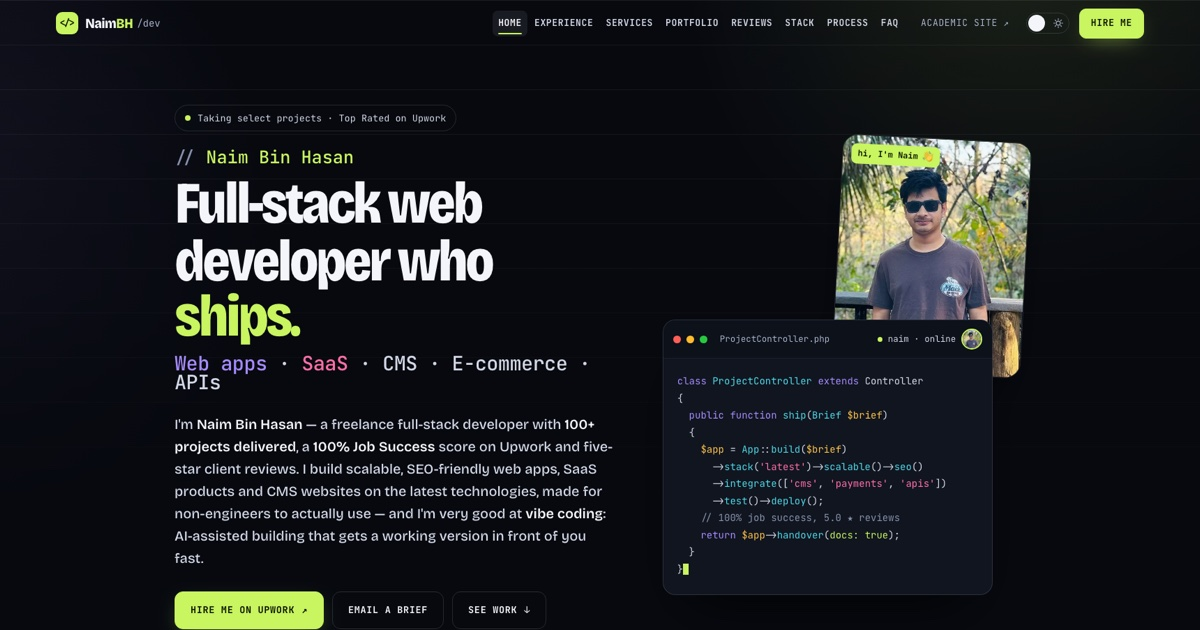
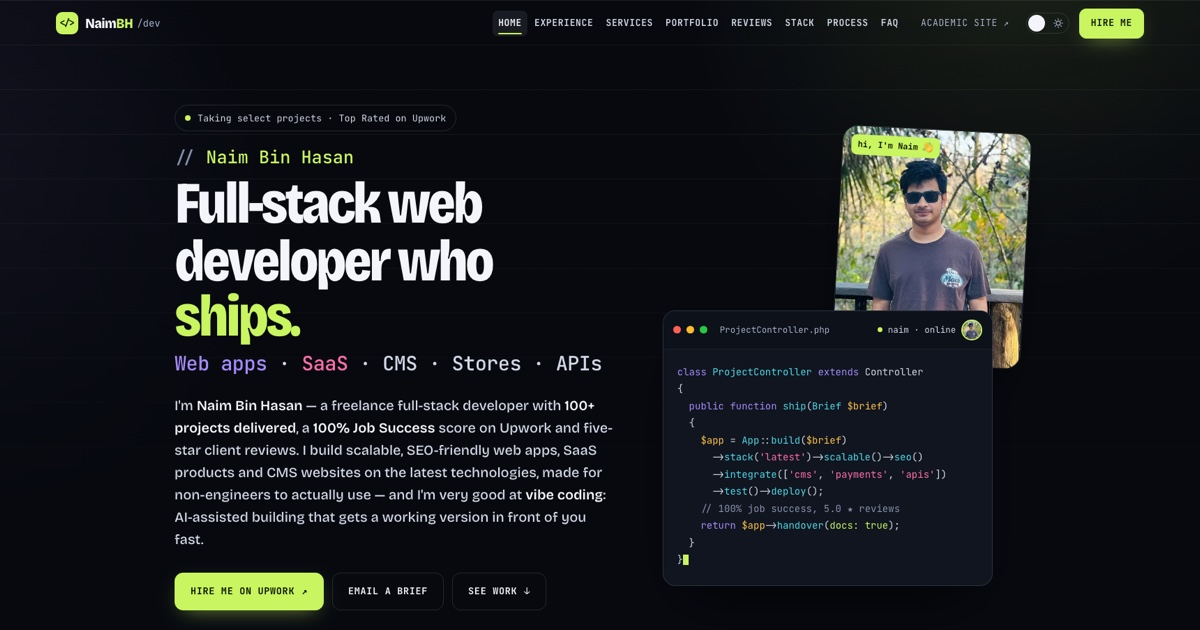
Dev hero: keep stack line on one row

diff --git a/dev/index.html b/dev/index.html
@@ -43,8 +43,8 @@
 <meta property="og:title" content="Naim Bin Hasan — Freelance Full-Stack Web Developer: Web Apps, SaaS &amp; CMS">
 <meta property="og:description" content="Top Rated on Upwork with 100% Job Success. Scalable web apps, SaaS products, SEO-friendly CMS websites and API integrations, built with the latest technologies. 100+ projects delivered.">
 <meta property="og:url" content="https://dev.naimbh.com/">
-<meta property="og:image" content="https://dev.naimbh.com/images/naim-bin-hasan-web-developer-site.jpg?v=2">
-<meta property="og:image:secure_url" content="https://dev.naimbh.com/images/naim-bin-hasan-web-developer-site.jpg?v=2">
+<meta property="og:image" content="https://dev.naimbh.com/images/naim-bin-hasan-web-developer-site.jpg?v=3">
+<meta property="og:image:secure_url" content="https://dev.naimbh.com/images/naim-bin-hasan-web-developer-site.jpg?v=3">
 <meta property="og:image:type" content="image/jpeg">
 <meta property="og:image:width" content="1200">
 <meta property="og:image:height" content="630">
@@ -53,7 +53,7 @@
 <meta name="twitter:card" content="summary_large_image">
 <meta name="twitter:title" content="Naim Bin Hasan — Freelance Full-Stack Web Developer: Web Apps, SaaS &amp; CMS">
 <meta name="twitter:description" content="Top Rated on Upwork with 100% Job Success. Scalable web apps, SaaS products, SEO-friendly CMS websites and API integrations, built with the latest technologies. 100+ projects delivered.">
-<meta name="twitter:image" content="https://dev.naimbh.com/images/naim-bin-hasan-web-developer-site.jpg?v=2">
+<meta name="twitter:image" content="https://dev.naimbh.com/images/naim-bin-hasan-web-developer-site.jpg?v=3">
 <meta name="twitter:image:alt" content="Homepage of dev.naimbh.com: Naim Bin Hasan, full-stack web developer for web apps, SaaS and CMS websites">
 
 <script type="application/ld+json">
@@ -853,7 +853,7 @@ html.lenis, html.lenis body{ height:auto; }
           <span class="ln nm"><span data-line style="--d:0s">Naim Bin Hasan</span></span>
           <span class="ln"><span data-line style="--d:.06s">Full-stack web</span></span>
           <span class="ln"><span data-line style="--d:.12s">developer who <span class="hl">ships.</span></span></span>
-          <span class="ln"><span data-line style="--d:.18s"><span class="stk"><b>Web apps</b> · <u>SaaS</u> · CMS · E-commerce · APIs</span></span></span>
+          <span class="ln"><span data-line style="--d:.18s"><span class="stk"><b>Web apps</b> · <u>SaaS</u> · CMS · Stores · APIs</span></span></span>
         </h1>
         <p class="intro">I'm <strong>Naim Bin Hasan</strong> — a freelance full-stack developer with <strong>100+ projects delivered</strong>, a <strong>100% Job Success</strong> score on Upwork and five-star client reviews. I build scalable, SEO-friendly web apps, SaaS products and CMS websites on the latest technologies, made for non-engineers to actually use — and I'm very good at <strong>vibe coding</strong>: AI-assisted building that gets a working version in front of you fast.</p>
         <div class="cta">

diff --git a/dev/services/index.html b/dev/services/index.html
@@ -43,8 +43,8 @@
 <meta property="og:title" content="Web App, SaaS &amp; CMS Development Services | Naim Bin Hasan">
 <meta property="og:description" content="Scalable custom web apps and SaaS products, SEO-friendly CMS websites, dashboards, e-commerce and API integrations, built with the latest technologies by full-stack developer Naim Bin Hasan.">
 <meta property="og:url" content="https://dev.naimbh.com/services/">
-<meta property="og:image" content="https://dev.naimbh.com/images/naim-bin-hasan-web-developer-site.jpg?v=2">
-<meta property="og:image:secure_url" content="https://dev.naimbh.com/images/naim-bin-hasan-web-developer-site.jpg?v=2">
+<meta property="og:image" content="https://dev.naimbh.com/images/naim-bin-hasan-web-developer-site.jpg?v=3">
+<meta property="og:image:secure_url" content="https://dev.naimbh.com/images/naim-bin-hasan-web-developer-site.jpg?v=3">
 <meta property="og:image:type" content="image/jpeg">
 <meta property="og:image:width" content="1200">
 <meta property="og:image:height" content="630">
@@ -53,7 +53,7 @@
 <meta name="twitter:card" content="summary_large_image">
 <meta name="twitter:title" content="Web App, SaaS &amp; CMS Development Services | Naim Bin Hasan">
 <meta name="twitter:description" content="Scalable custom web apps and SaaS products, SEO-friendly CMS websites, dashboards, e-commerce and API integrations, built with the latest technologies by full-stack developer Naim Bin Hasan.">
-<meta name="twitter:image" content="https://dev.naimbh.com/images/naim-bin-hasan-web-developer-site.jpg?v=2">
+<meta name="twitter:image" content="https://dev.naimbh.com/images/naim-bin-hasan-web-developer-site.jpg?v=3">
 <meta name="twitter:image:alt" content="Homepage of dev.naimbh.com: Naim Bin Hasan, full-stack web developer for web apps, SaaS and CMS websites">
 
 <script type="application/ld+json">

diff --git a/dev/experience/index.html b/dev/experience/index.html
@@ -43,8 +43,8 @@
 <meta property="og:title" content="Web Development Experience | Naim Bin Hasan">
 <meta property="og:description" content="Where Naim Bin Hasan has built software: research web tools at the Syracuse University iSchool, full-stack business apps and dashboards at Zilberman Insurance, and 100+ client projects on Upwork and Fiverr.">
 <meta property="og:url" content="https://dev.naimbh.com/experience/">
-<meta property="og:image" content="https://dev.naimbh.com/images/naim-bin-hasan-web-developer-site.jpg?v=2">
-<meta property="og:image:secure_url" content="https://dev.naimbh.com/images/naim-bin-hasan-web-developer-site.jpg?v=2">
+<meta property="og:image" content="https://dev.naimbh.com/images/naim-bin-hasan-web-developer-site.jpg?v=3">
+<meta property="og:image:secure_url" content="https://dev.naimbh.com/images/naim-bin-hasan-web-developer-site.jpg?v=3">
 <meta property="og:image:type" content="image/jpeg">
 <meta property="og:image:width" content="1200">
 <meta property="og:image:height" content="630">
@@ -53,7 +53,7 @@
 <meta name="twitter:card" content="summary_large_image">
 <meta name="twitter:title" content="Web Development Experience | Naim Bin Hasan">
 <meta name="twitter:description" content="Where Naim Bin Hasan has built software: research web tools at the Syracuse University iSchool, full-stack business apps and dashboards at Zilberman Insurance, and 100+ client projects on Upwork and Fiverr.">
-<meta name="twitter:image" content="https://dev.naimbh.com/images/naim-bin-hasan-web-developer-site.jpg?v=2">
+<meta name="twitter:image" content="https://dev.naimbh.com/images/naim-bin-hasan-web-developer-site.jpg?v=3">
 <meta name="twitter:image:alt" content="Homepage of dev.naimbh.com: Naim Bin Hasan, full-stack web developer for web apps, SaaS and CMS websites">
 
 <script type="application/ld+json">

diff --git a/dev/contact/index.html b/dev/contact/index.html
@@ -43,8 +43,8 @@
 <meta property="og:title" content="Hire Naim Bin Hasan | Full-Stack Web Developer for Your Project">
 <meta property="og:description" content="Hire Naim Bin Hasan for your web project through Upwork, Fiverr or email. Tell him what you're building, your timeline and budget; he usually replies within a day.">
 <meta property="og:url" content="https://dev.naimbh.com/contact/">
-<meta property="og:image" content="https://dev.naimbh.com/images/naim-bin-hasan-web-developer-site.jpg?v=2">
-<meta property="og:image:secure_url" content="https://dev.naimbh.com/images/naim-bin-hasan-web-developer-site.jpg?v=2">
+<meta property="og:image" content="https://dev.naimbh.com/images/naim-bin-hasan-web-developer-site.jpg?v=3">
+<meta property="og:image:secure_url" content="https://dev.naimbh.com/images/naim-bin-hasan-web-developer-site.jpg?v=3">
 <meta property="og:image:type" content="image/jpeg">
 <meta property="og:image:width" content="1200">
 <meta property="og:image:height" content="630">
@@ -53,7 +53,7 @@
 <meta name="twitter:card" content="summary_large_image">
 <meta name="twitter:title" content="Hire Naim Bin Hasan | Full-Stack Web Developer for Your Project">
 <meta name="twitter:description" content="Hire Naim Bin Hasan for your web project through Upwork, Fiverr or email. Tell him what you're building, your timeline and budget; he usually replies within a day.">
-<meta name="twitter:image" content="https://dev.naimbh.com/images/naim-bin-hasan-web-developer-site.jpg?v=2">
+<meta name="twitter:image" content="https://dev.naimbh.com/images/naim-bin-hasan-web-developer-site.jpg?v=3">
 <meta name="twitter:image:alt" content="Homepage of dev.naimbh.com: Naim Bin Hasan, full-stack web developer for web apps, SaaS and CMS websites">
 
 <script type="application/ld+json">

diff --git a/dev/stack/index.html b/dev/stack/index.html
@@ -43,8 +43,8 @@
 <meta property="og:title" content="Tech Stack | Naim Bin Hasan, Full-Stack Web Developer">
 <meta property="og:description" content="The technologies Naim Bin Hasan builds with: Laravel, PHP, Vue.js, React, MySQL, Redis, Linux servers, Nginx, Docker, AWS S3, Stripe, Twilio and AI-assisted development.">
 <meta property="og:url" content="https://dev.naimbh.com/stack/">
-<meta property="og:image" content="https://dev.naimbh.com/images/naim-bin-hasan-web-developer-site.jpg?v=2">
-<meta property="og:image:secure_url" content="https://dev.naimbh.com/images/naim-bin-hasan-web-developer-site.jpg?v=2">
+<meta property="og:image" content="https://dev.naimbh.com/images/naim-bin-hasan-web-developer-site.jpg?v=3">
+<meta property="og:image:secure_url" content="https://dev.naimbh.com/images/naim-bin-hasan-web-developer-site.jpg?v=3">
 <meta property="og:image:type" content="image/jpeg">
 <meta property="og:image:width" content="1200">
 <meta property="og:image:height" content="630">
@@ -53,7 +53,7 @@
 <meta name="twitter:card" content="summary_large_image">
 <meta name="twitter:title" content="Tech Stack | Naim Bin Hasan, Full-Stack Web Developer">
 <meta name="twitter:description" content="The technologies Naim Bin Hasan builds with: Laravel, PHP, Vue.js, React, MySQL, Redis, Linux servers, Nginx, Docker, AWS S3, Stripe, Twilio and AI-assisted development.">
-<meta name="twitter:image" content="https://dev.naimbh.com/images/naim-bin-hasan-web-developer-site.jpg?v=2">
+<meta name="twitter:image" content="https://dev.naimbh.com/images/naim-bin-hasan-web-developer-site.jpg?v=3">
 <meta name="twitter:image:alt" content="Homepage of dev.naimbh.com: Naim Bin Hasan, full-stack web developer for web apps, SaaS and CMS websites">
 
 <script type="application/ld+json">

diff --git a/dev/faq/index.html b/dev/faq/index.html
@@ -43,8 +43,8 @@
 <meta property="og:title" content="FAQ | Hiring Naim Bin Hasan, Freelance Web Developer">
 <meta property="og:description" content="Answers about hiring Naim Bin Hasan: the projects he takes on, how to hire him, which technology he uses, AI-assisted development and freelancing alongside a PhD.">
 <meta property="og:url" content="https://dev.naimbh.com/faq/">
-<meta property="og:image" content="https://dev.naimbh.com/images/naim-bin-hasan-web-developer-site.jpg?v=2">
-<meta property="og:image:secure_url" content="https://dev.naimbh.com/images/naim-bin-hasan-web-developer-site.jpg?v=2">
+<meta property="og:image" content="https://dev.naimbh.com/images/naim-bin-hasan-web-developer-site.jpg?v=3">
+<meta property="og:image:secure_url" content="https://dev.naimbh.com/images/naim-bin-hasan-web-developer-site.jpg?v=3">
 <meta property="og:image:type" content="image/jpeg">
 <meta property="og:image:width" content="1200">
 <meta property="og:image:height" content="630">
@@ -53,7 +53,7 @@
 <meta name="twitter:card" content="summary_large_image">
 <meta name="twitter:title" content="FAQ | Hiring Naim Bin Hasan, Freelance Web Developer">
 <meta name="twitter:description" content="Answers about hiring Naim Bin Hasan: the projects he takes on, how to hire him, which technology he uses, AI-assisted development and freelancing alongside a PhD.">
-<meta name="twitter:image" content="https://dev.naimbh.com/images/naim-bin-hasan-web-developer-site.jpg?v=2">
+<meta name="twitter:image" content="https://dev.naimbh.com/images/naim-bin-hasan-web-developer-site.jpg?v=3">
 <meta name="twitter:image:alt" content="Homepage of dev.naimbh.com: Naim Bin Hasan, full-stack web developer for web apps, SaaS and CMS websites">
 
 <script type="application/ld+json">

diff --git a/dev/portfolio/index.html b/dev/portfolio/index.html
@@ -43,8 +43,8 @@
 <meta property="og:title" content="Portfolio | Naim Bin Hasan, Full-Stack Web Developer">
 <meta property="og:description" content="Full-stack projects shipped by Naim Bin Hasan: custom CMSs, SaaS platforms, payments, real-time apps and API integrations, built to scale and to rank.">
 <meta property="og:url" content="https://dev.naimbh.com/portfolio/">
-<meta property="og:image" content="https://dev.naimbh.com/images/naim-bin-hasan-web-developer-site.jpg?v=2">
-<meta property="og:image:secure_url" content="https://dev.naimbh.com/images/naim-bin-hasan-web-developer-site.jpg?v=2">
+<meta property="og:image" content="https://dev.naimbh.com/images/naim-bin-hasan-web-developer-site.jpg?v=3">
+<meta property="og:image:secure_url" content="https://dev.naimbh.com/images/naim-bin-hasan-web-developer-site.jpg?v=3">
 <meta property="og:image:type" content="image/jpeg">
 <meta property="og:image:width" content="1200">
 <meta property="og:image:height" content="630">
@@ -53,7 +53,7 @@
 <meta name="twitter:card" content="summary_large_image">
 <meta name="twitter:title" content="Portfolio | Naim Bin Hasan, Full-Stack Web Developer">
 <meta name="twitter:description" content="Full-stack projects shipped by Naim Bin Hasan: custom CMSs, SaaS platforms, payments, real-time apps and API integrations, built to scale and to rank.">
-<meta name="twitter:image" content="https://dev.naimbh.com/images/naim-bin-hasan-web-developer-site.jpg?v=2">
+<meta name="twitter:image" content="https://dev.naimbh.com/images/naim-bin-hasan-web-developer-site.jpg?v=3">
 <meta name="twitter:image:alt" content="Homepage of dev.naimbh.com: Naim Bin Hasan, full-stack web developer for web apps, SaaS and CMS websites">
 
 <script type="application/ld+json">

diff --git a/dev/process/index.html b/dev/process/index.html
@@ -43,8 +43,8 @@
 <meta property="og:title" content="How I Work | Naim Bin Hasan, Freelance Web Developer">
 <meta property="og:description" content="A simple, no-surprises process: brief, written scope and quote, build in milestones, then launch and handover with documentation.">
 <meta property="og:url" content="https://dev.naimbh.com/process/">
-<meta property="og:image" content="https://dev.naimbh.com/images/naim-bin-hasan-web-developer-site.jpg?v=2">
-<meta property="og:image:secure_url" content="https://dev.naimbh.com/images/naim-bin-hasan-web-developer-site.jpg?v=2">
+<meta property="og:image" content="https://dev.naimbh.com/images/naim-bin-hasan-web-developer-site.jpg?v=3">
+<meta property="og:image:secure_url" content="https://dev.naimbh.com/images/naim-bin-hasan-web-developer-site.jpg?v=3">
 <meta property="og:image:type" content="image/jpeg">
 <meta property="og:image:width" content="1200">
 <meta property="og:image:height" content="630">
@@ -53,7 +53,7 @@
 <meta name="twitter:card" content="summary_large_image">
 <meta name="twitter:title" content="How I Work | Naim Bin Hasan, Freelance Web Developer">
 <meta name="twitter:description" content="A simple, no-surprises process: brief, written scope and quote, build in milestones, then launch and handover with documentation.">
-<meta name="twitter:image" content="https://dev.naimbh.com/images/naim-bin-hasan-web-developer-site.jpg?v=2">
+<meta name="twitter:image" content="https://dev.naimbh.com/images/naim-bin-hasan-web-developer-site.jpg?v=3">
 <meta name="twitter:image:alt" content="Homepage of dev.naimbh.com: Naim Bin Hasan, full-stack web developer for web apps, SaaS and CMS websites">
 
 <script type="application/ld+json">

diff --git a/dev/reviews/index.html b/dev/reviews/index.html
@@ -43,8 +43,8 @@
 <meta property="og:title" content="Client Reviews | Naim Bin Hasan, Top Rated on Upwork">
 <meta property="og:description" content="Verified five-star client reviews of Naim Bin Hasan's web development work from completed Upwork contracts.">
 <meta property="og:url" content="https://dev.naimbh.com/reviews/">
-<meta property="og:image" content="https://dev.naimbh.com/images/naim-bin-hasan-web-developer-site.jpg?v=2">
-<meta property="og:image:secure_url" content="https://dev.naimbh.com/images/naim-bin-hasan-web-developer-site.jpg?v=2">
+<meta property="og:image" content="https://dev.naimbh.com/images/naim-bin-hasan-web-developer-site.jpg?v=3">
+<meta property="og:image:secure_url" content="https://dev.naimbh.com/images/naim-bin-hasan-web-developer-site.jpg?v=3">
 <meta property="og:image:type" content="image/jpeg">
 <meta property="og:image:width" content="1200">
 <meta property="og:image:height" content="630">
@@ -53,7 +53,7 @@
 <meta name="twitter:card" content="summary_large_image">
 <meta name="twitter:title" content="Client Reviews | Naim Bin Hasan, Top Rated on Upwork">
 <meta name="twitter:description" content="Verified five-star client reviews of Naim Bin Hasan's web development work from completed Upwork contracts.">
-<meta name="twitter:image" content="https://dev.naimbh.com/images/naim-bin-hasan-web-developer-site.jpg?v=2">
+<meta name="twitter:image" content="https://dev.naimbh.com/images/naim-bin-hasan-web-developer-site.jpg?v=3">
 <meta name="twitter:image:alt" content="Homepage of dev.naimbh.com: Naim Bin Hasan, full-stack web developer for web apps, SaaS and CMS websites">
 
 <script type="application/ld+json">
